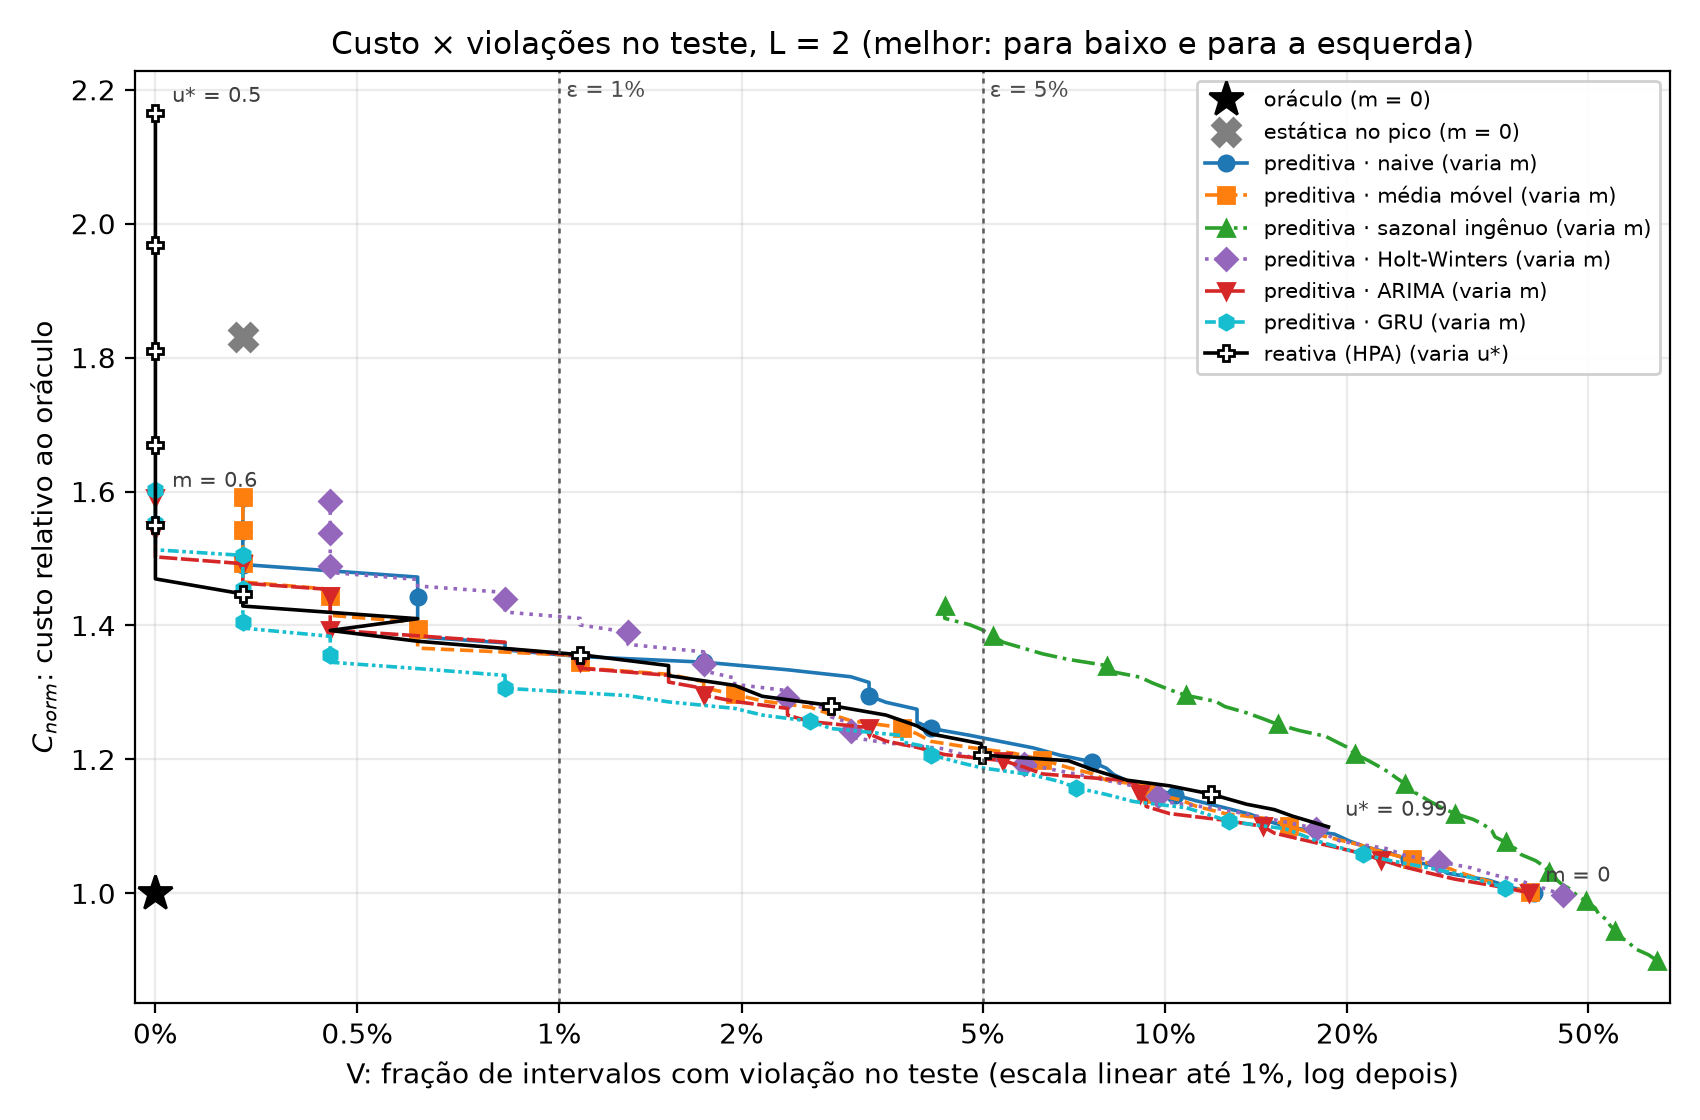
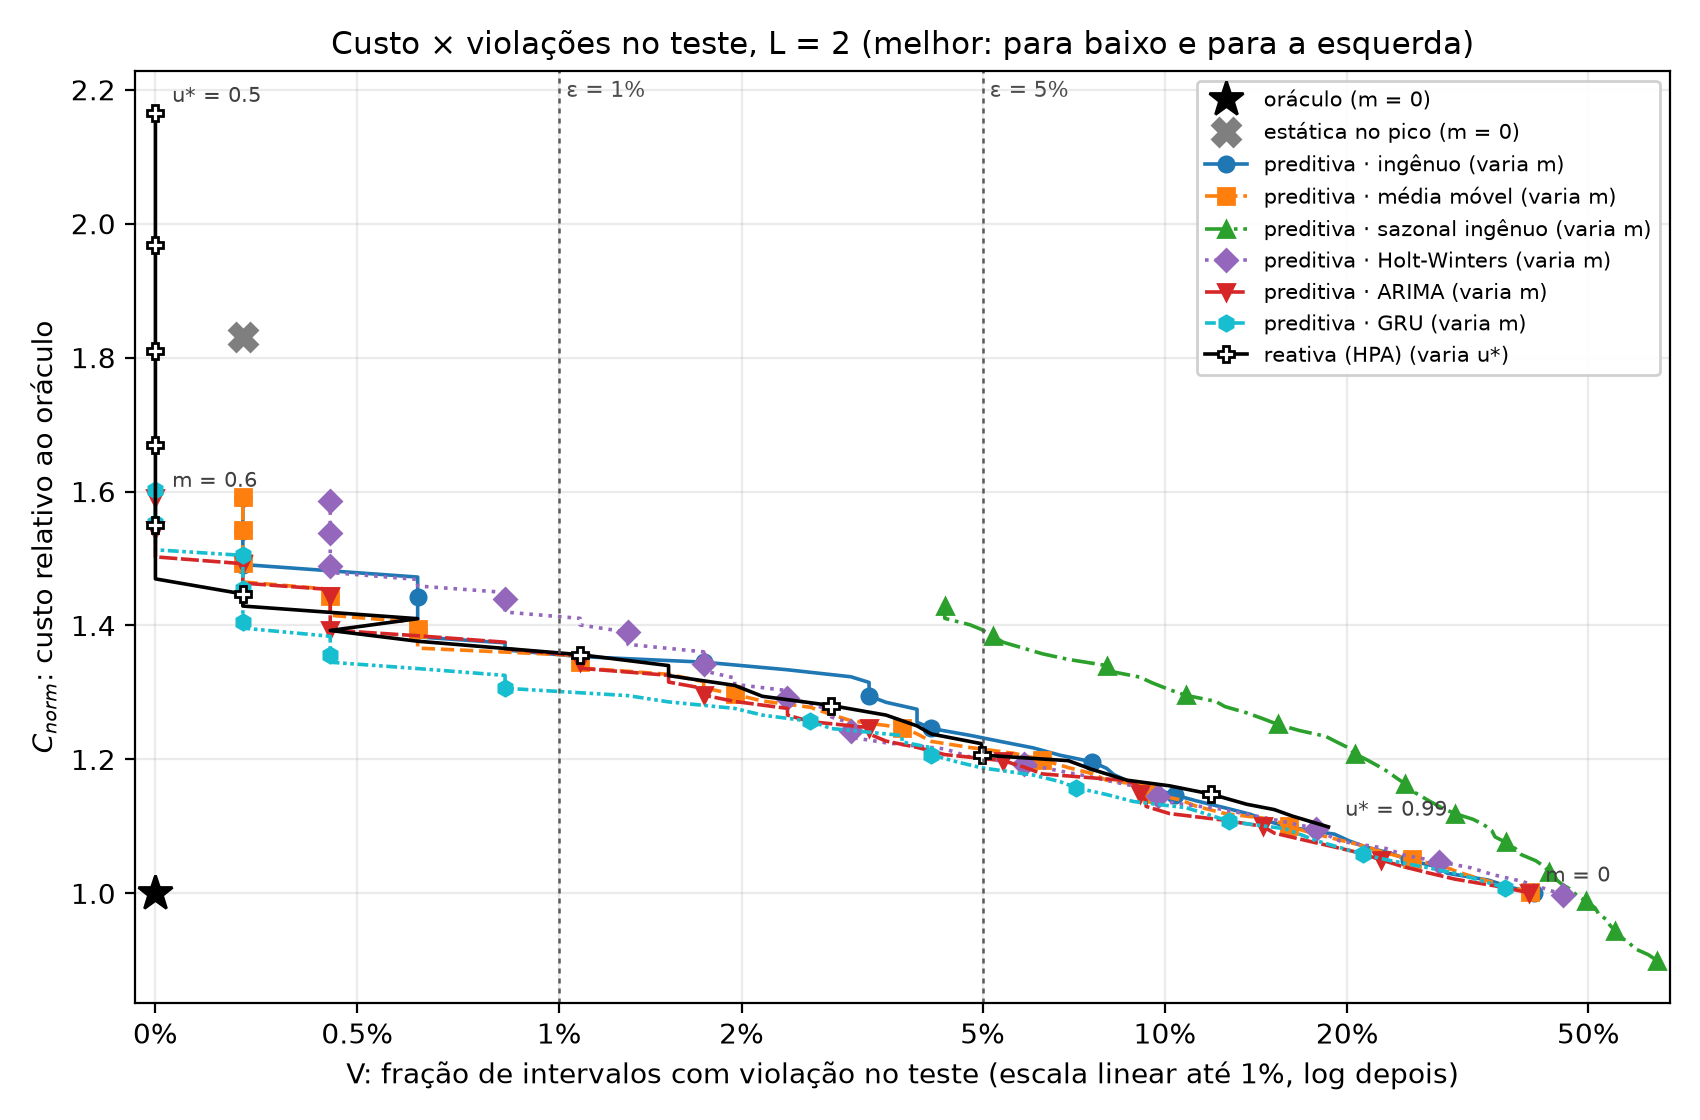
fix(figuras): rotula o método ingênuo em português
Figuras do simulador regeneradas a partir de results/tables.

Changed region(s): [[0.7171, 0.125, 0.9665, 0.3438]]

diff --git a/src/tcc/sim/figures.py b/src/tcc/sim/figures.py
@@ -18,7 +18,7 @@ from matplotlib.transforms import ScaledTranslation  # noqa: E402
 DPI = 200
 #: (rótulo em português, cor, marcador, estilo de linha)
 STYLES: dict[str, tuple[str, str, str, str]] = {
-    "naive": ("preditiva · naive", "#1f77b4", "o", "-"),
+    "naive": ("preditiva · ingênuo", "#1f77b4", "o", "-"),
     "moving_average": ("preditiva · média móvel", "#ff7f0e", "s", "--"),
     "seasonal_naive": ("preditiva · sazonal ingênuo", "#2ca02c", "^", "-."),
     "holt_winters": ("preditiva · Holt-Winters", "#9467bd", "D", ":"),
